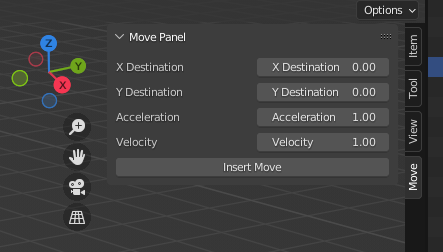
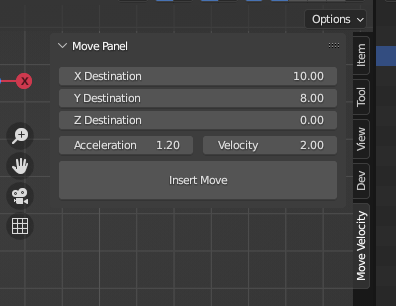
small update to readme

diff --git a/README.md b/README.md
@@ -1,7 +1,13 @@
 # bl_MoveVelocity
 Simple path-planner utility to build object keyframes in Velocity-space in Blender
 
+Plug in basic parameters for an absolute positional movement
+
 ![Screenshot](PanelScreen.png)
+
+And insert keyframes for a 3-segment acceleration, constant-v, deceleration movement.
+
+![Screenshot](Trajectory.png)
 
 ## Usage
 
@@ -17,5 +23,3 @@ Simple path-planner utility to build object keyframes in Velocity-space in Blend
 ## Installation
 
 Install the Addon from Edit > Preferences > Addons
-
-
